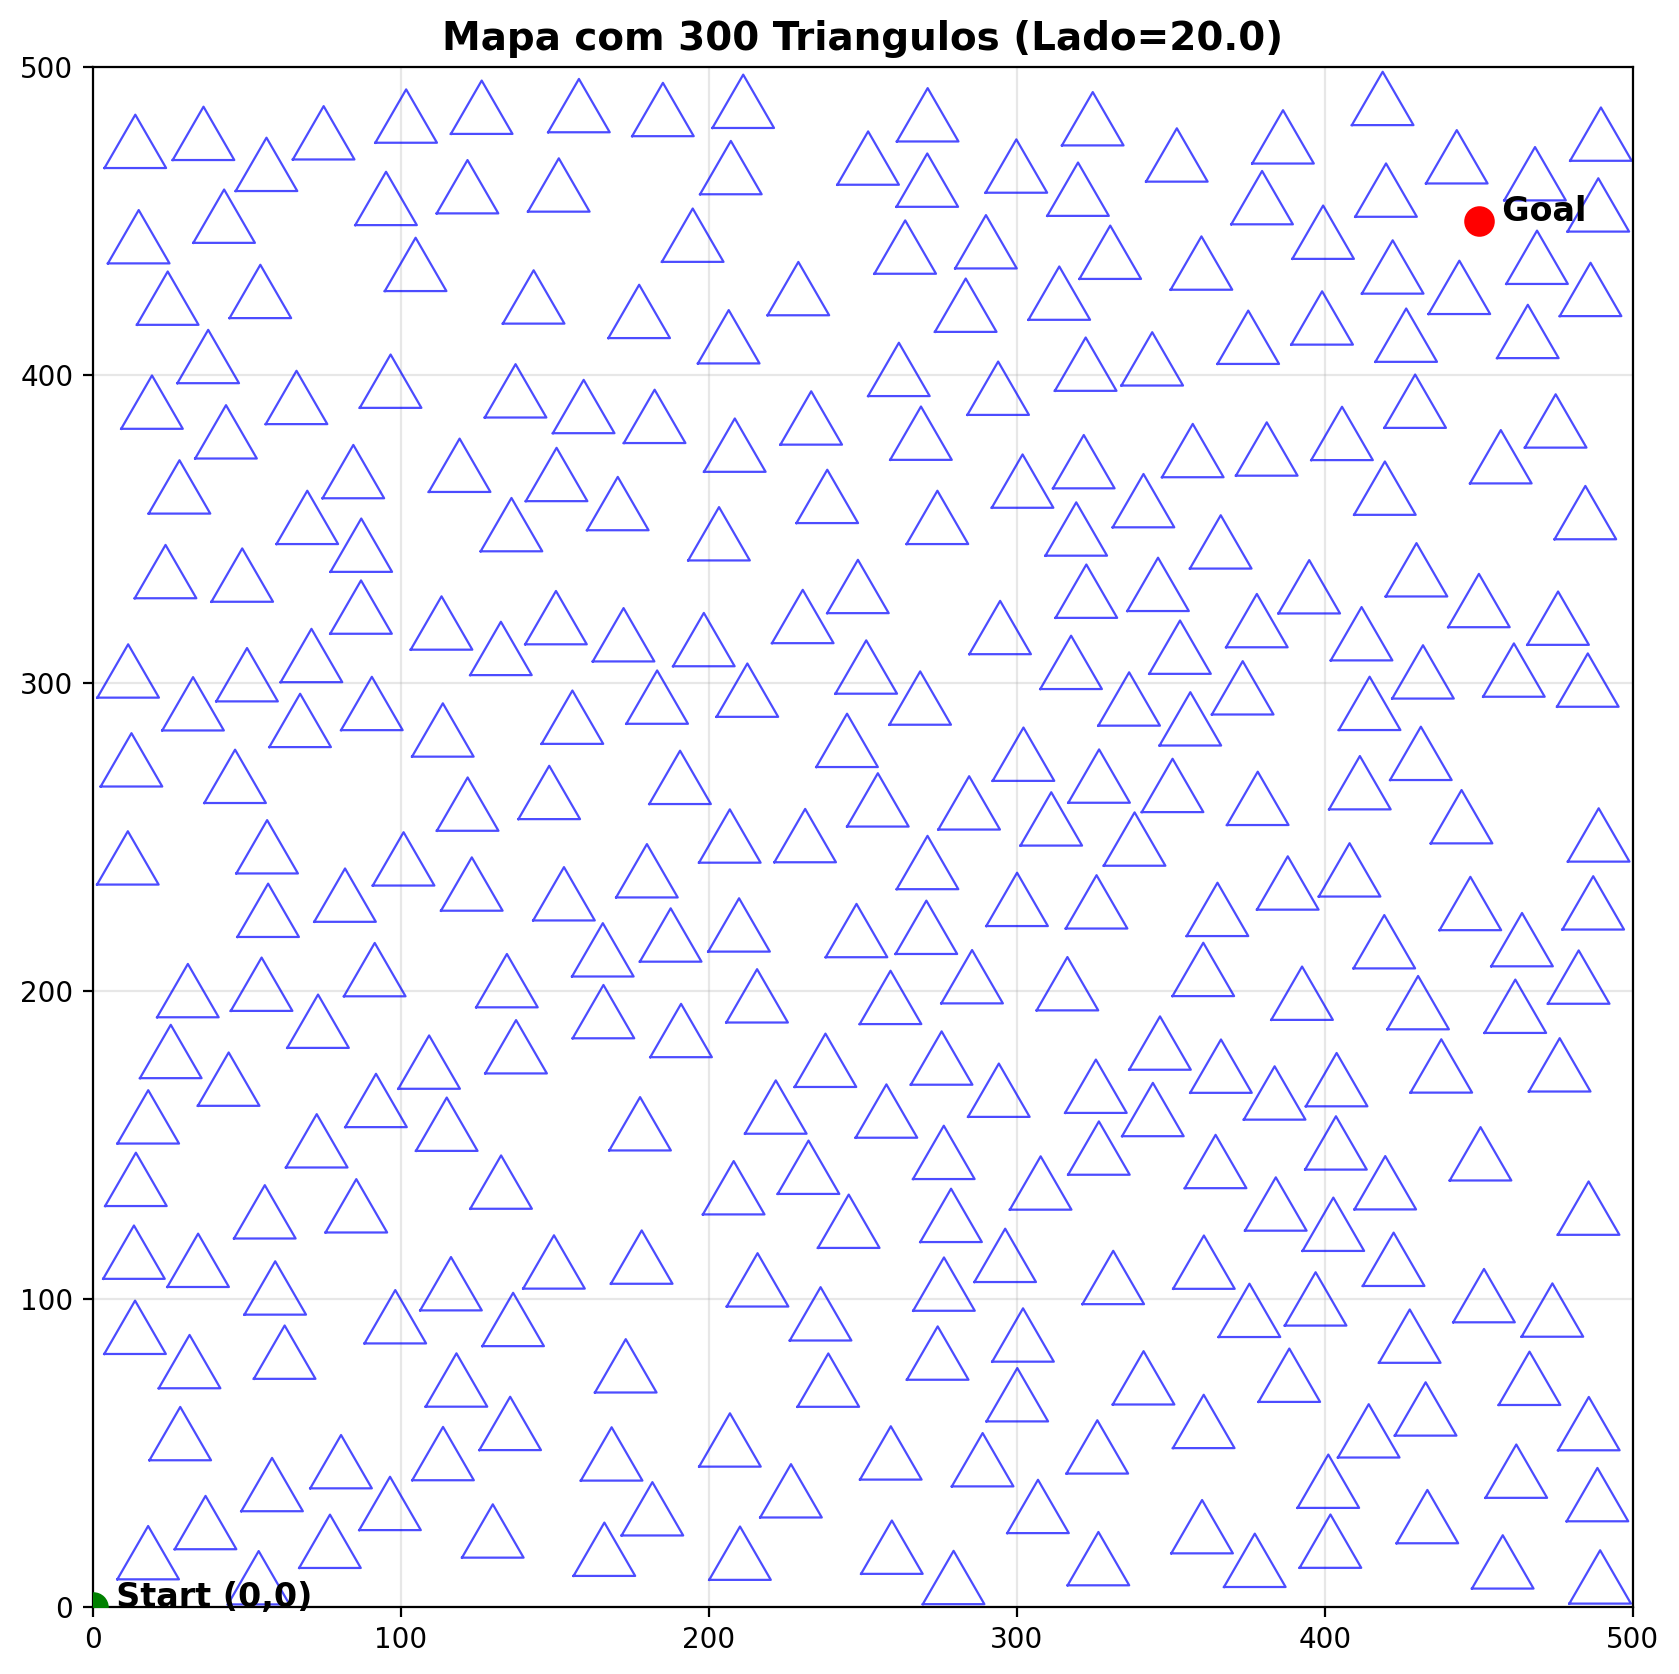
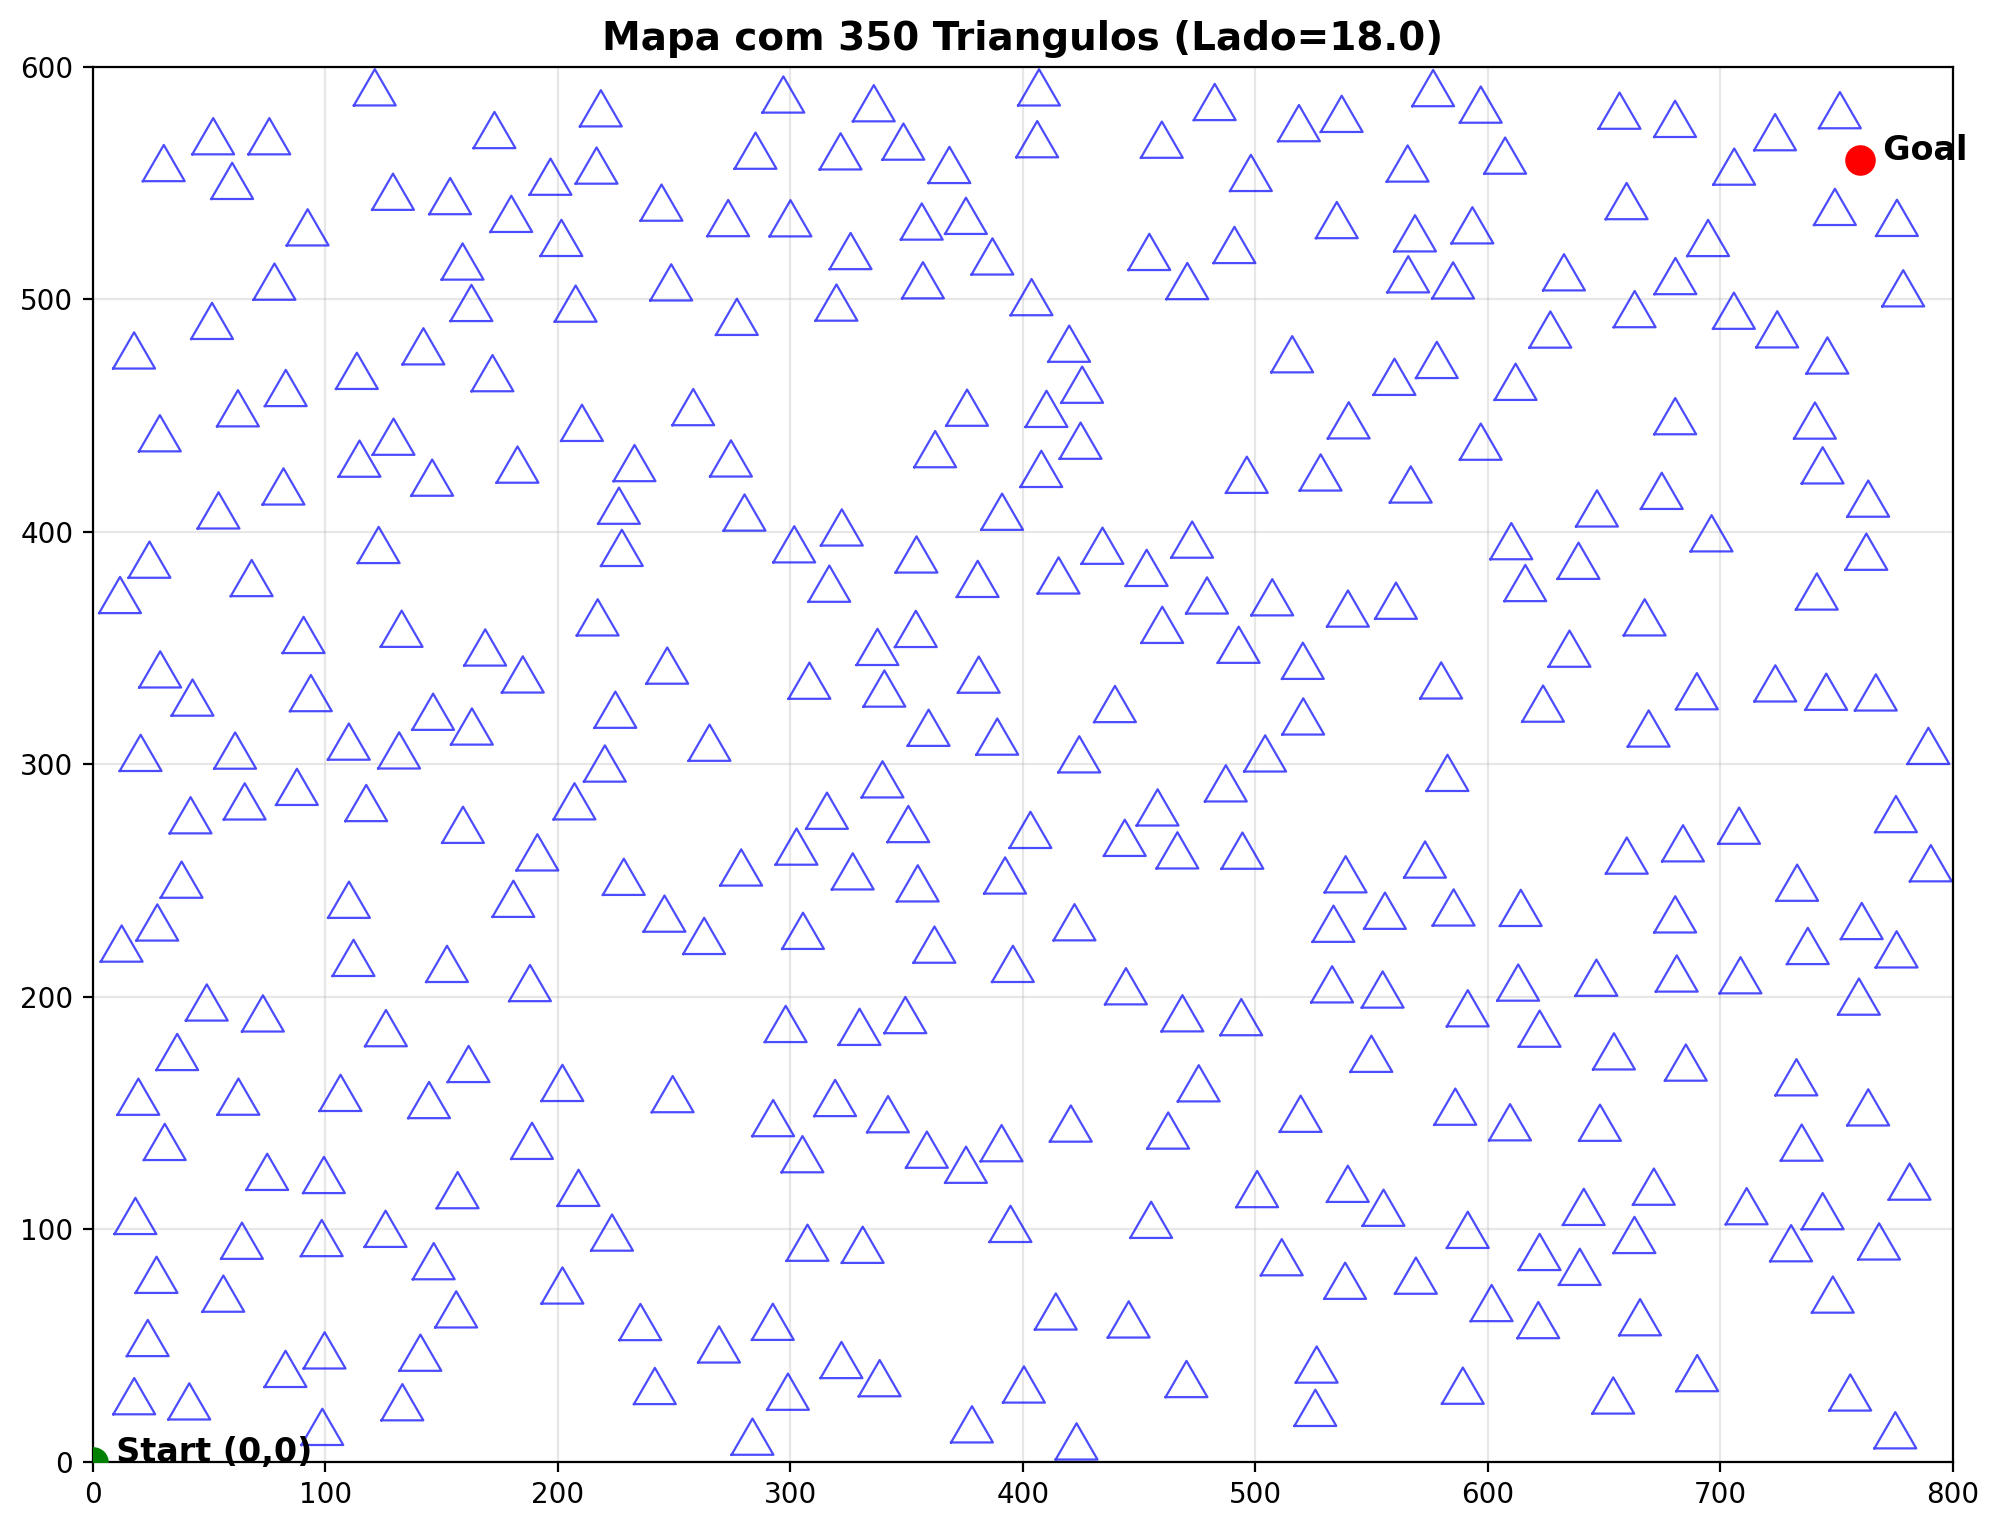
doc(readme): atualização no readme

diff --git a/README.md b/README.md
@@ -1,15 +1,71 @@
-# Gerador de Mapas com Triângulos - Versão para Grandes Volumes
+# Gerador de Mapas com Triângulos
 
-## Sobre o Programa
+## Sobre o projeto
 
-Gera mapas 2D com triângulos equiláteros sem colisão. Otimizado para:
-- 300+ triângulos
-- Execução rápida
-- Validação automática
-- Avisos quando não for possível gerar todos
+Este projeto gera mapas 2D com obstáculos em formato de triângulos equiláteros, evitando colisão entre eles e validando o ponto final informado.
 
-## Como Usar
+Principais características:
+- Suporte a grandes volumes (ex.: 300+ triângulos)
+- Geração automática sem sobreposição
+- Validação dos parâmetros de entrada
+- Aviso quando a configuração tende a ser inviável
 
-### Modo Simples (recomendado)
+## Requisitos
+
+- Python 3.10+ (recomendado)
+- Dependências listadas em `requirements.txt`
+
+## Como executar
+
+O script principal é o `main.py`. Ele já prepara ambiente virtual e instala dependências automaticamente quando necessário.
+
+### 1. Modo interativo (sem parâmetros)
+
+Execute:
+
 ```bash
 python main.py
+```
+
+Depois disso, o programa vai solicitar os valores no terminal:
+- largura do mapa
+- altura do mapa
+- quantidade de triângulos
+- tamanho do lado do triângulo
+- coordenadas `x` e `y` do ponto final
+
+### 2. Modo por parâmetros (linha de comando)
+
+Você pode passar todos os valores diretamente no comando.
+
+Exemplo:
+
+```bash
+python main.py --largura 500 --altura 500 --qtd 300 --lado 20 --xf 450 --yf 450
+```
+
+Parâmetros disponíveis:
+- `--largura`: largura do mapa (float)
+- `--altura`: altura do mapa (float)
+- `--qtd`: quantidade de triângulos (int)
+- `--lado`: tamanho do lado do triângulo (float)
+- `--xf`: coordenada X do ponto final (float)
+- `--yf`: coordenada Y do ponto final (float)
+
+Observação importante:
+- Informe **todos os parâmetros** ou **nenhum**. Se você passar só parte deles, o programa retorna erro.
+
+## Exemplo completo
+
+```bash
+python main.py --largura 800 --altura 600 --qtd 350 --lado 18 --xf 760 --yf 560
+```
+
+## Saída esperada
+
+Durante a execução, o programa mostra:
+- configuração escolhida
+- tempo de geração
+- quantidade de triângulos gerados
+- validação do ponto final
+- checagem de colisões
